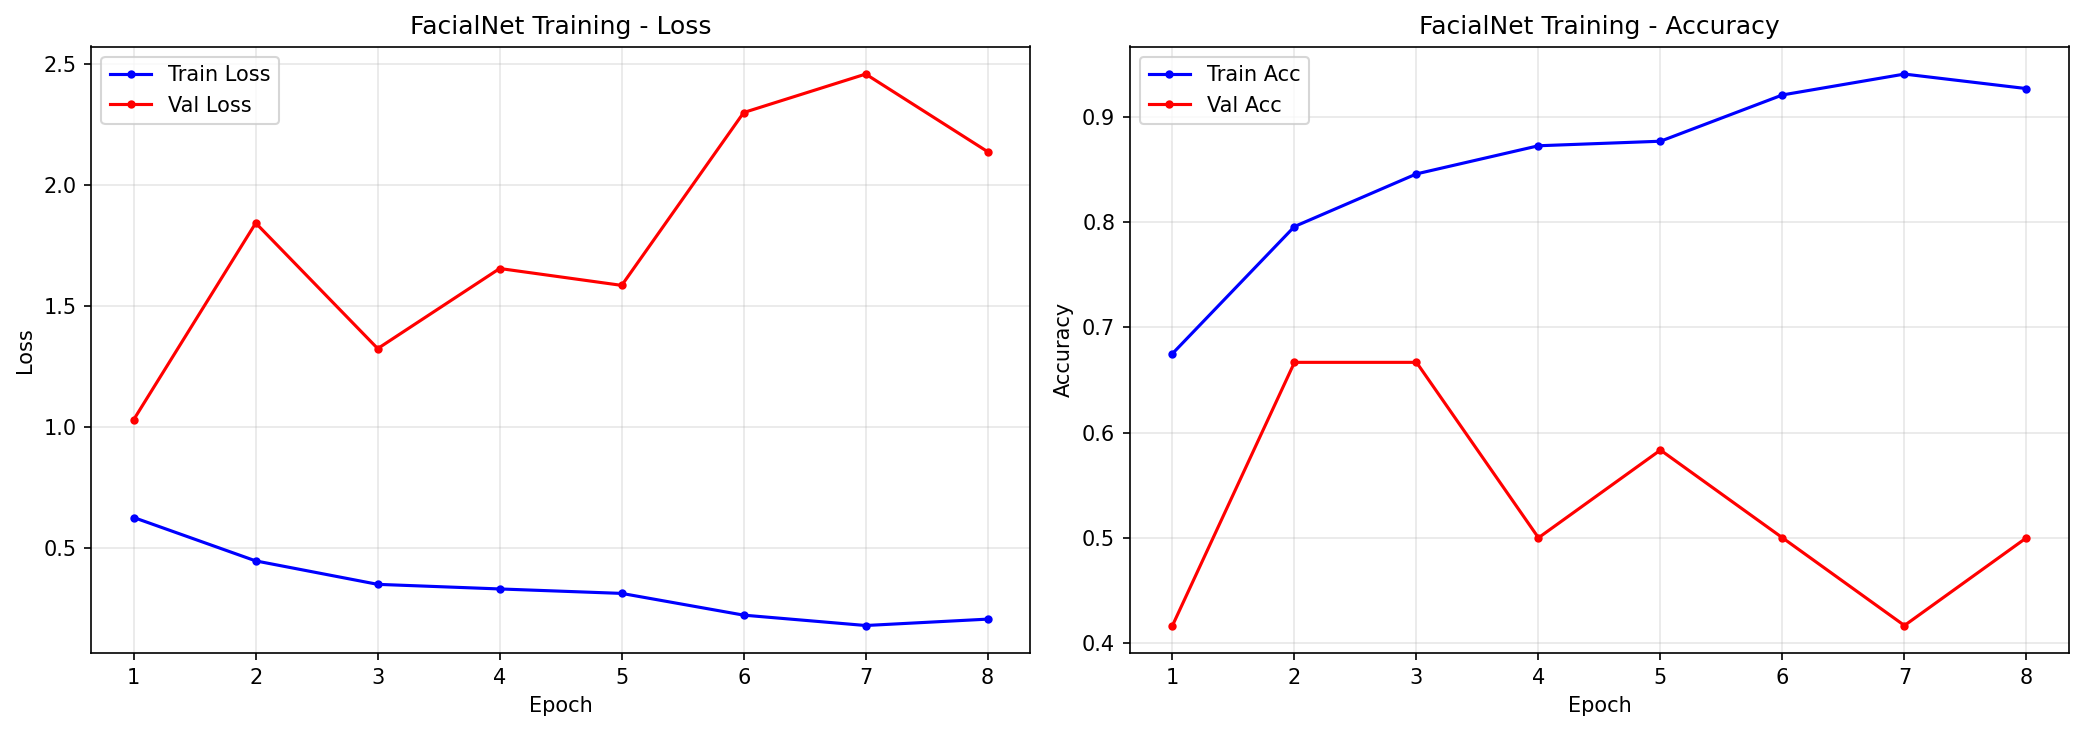
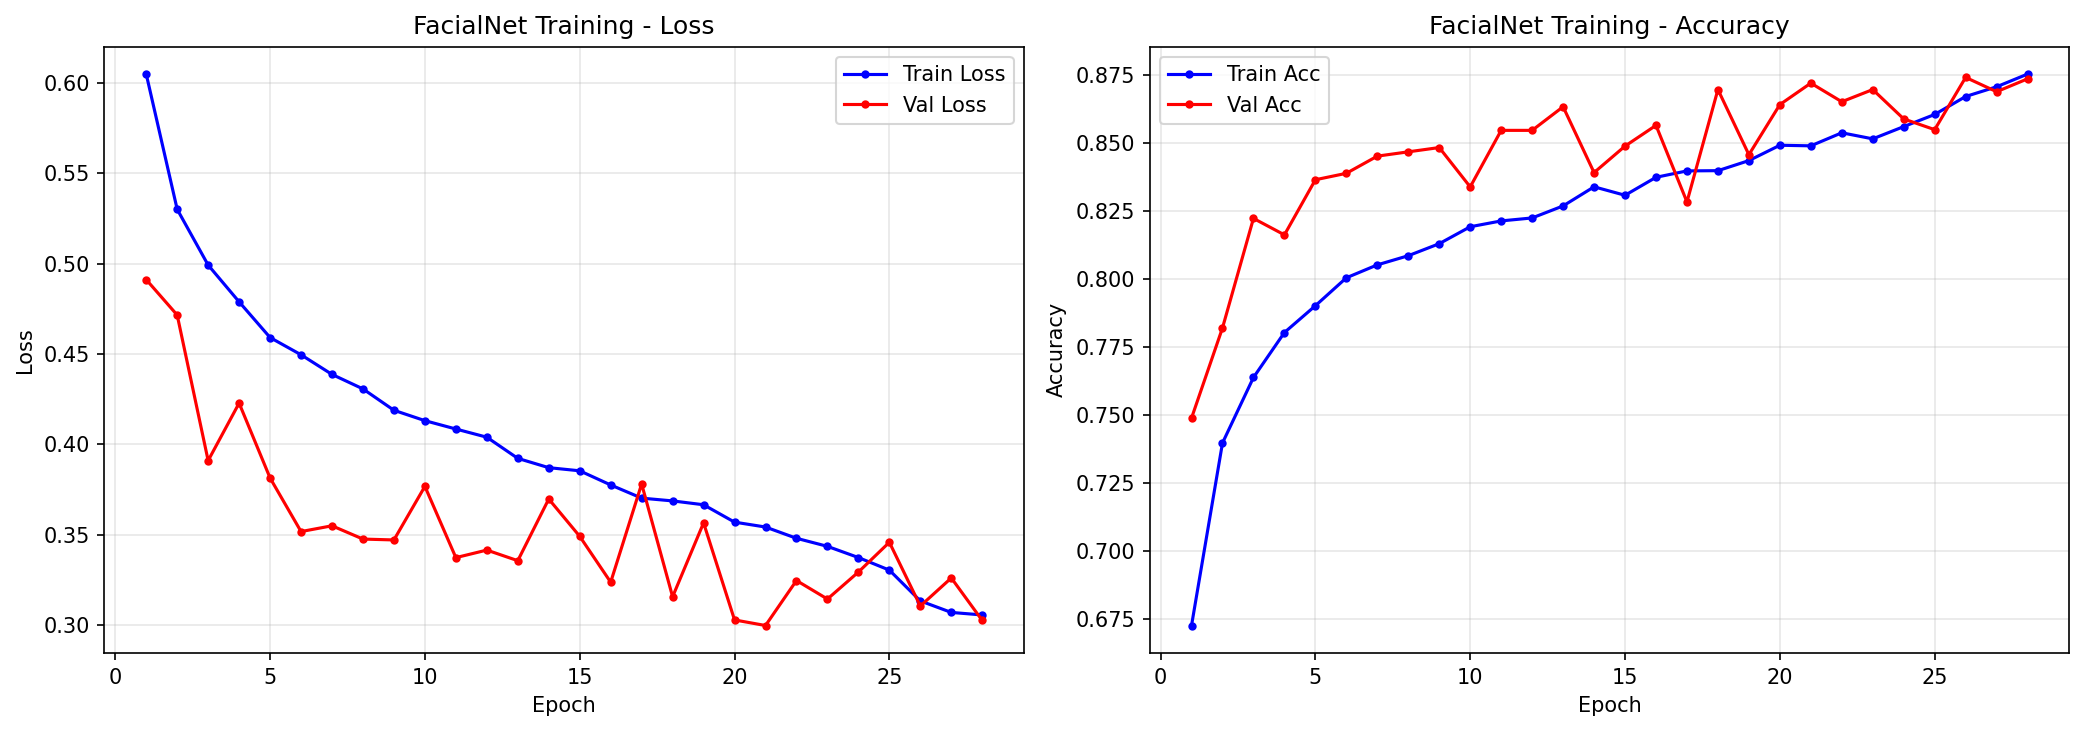
Update: trained FacialNet on new 30K dataset and FusionNet retrained with 80.7% final accuracy

diff --git a/data/facial_dataset.py b/data/facial_dataset.py
@@ -74,11 +74,10 @@ class FacialDataset(Dataset):
         # Convert to uint8 for PIL transforms
         image_uint8 = image.astype(np.uint8)
 
-        if self.augment and idx >= len(self.original_images):
-            # Apply augmentation for augmented copies
+        # Apply augmentation for training if enabled
+        if self.augment:
             image_tensor = self.augment_transform(image_uint8)
         else:
-            # Basic transform for original or validation images
             image_tensor = self.basic_transform(image_uint8)
 
         label = torch.LongTensor([label])[0]
@@ -89,8 +88,10 @@ def get_facial_dataloaders():
     """
     Build train/val/test DataLoaders for facial expression data.
 
-    Loads 83 images, splits 70/15/15 (stratified), and applies
-    20x augmentation on training set.
+    Loads 30,520 images, splits by 'Usage' column:
+    - Training -> Train
+    - PublicTest -> Val
+    - PrivateTest -> Test
 
     Returns:
         train_loader, val_loader, test_loader
@@ -104,33 +105,37 @@ def get_facial_dataloaders():
     print(f"  Loaded {len(df)} facial images")
     print(f"  Class distribution: {df['emotion'].value_counts().to_dict()}")
 
+    # Clean the Usage column
+    df["Usage"] = df["Usage"].str.strip()
+
+    # Split by Usage column
+    train_df = df[df["Usage"] == "Training"]
+    val_df = df[df["Usage"] == "PublicTest"]
+    test_df = df[df["Usage"] == "PrivateTest"]
+
+    print(f"  Train: {len(train_df)} images")
+    print(f"  Val:   {len(val_df)} images")
+    print(f"  Test:  {len(test_df)} images")
+
     # Parse pixel strings to images
-    images = np.array([parse_pixels(p) for p in df["pixels"].values])  # (83, 48, 48)
-    labels = df["emotion"].values.astype(np.int64)
+    print("  Parsing training pixels...")
+    X_train = np.array([parse_pixels(p) for p in train_df["pixels"].values])
+    y_train = train_df["emotion"].values.astype(np.int64)
 
-    # Stratified split: 70% train, 15% val, 15% test
-    X_train, X_temp, y_train, y_temp = train_test_split(
-        images, labels, test_size=0.30, random_state=config.RANDOM_SEED,
-        stratify=labels
-    )
-    X_val, X_test, y_val, y_test = train_test_split(
-        X_temp, y_temp, test_size=0.50, random_state=config.RANDOM_SEED,
-        stratify=y_temp
-    )
+    print("  Parsing validation pixels...")
+    X_val = np.array([parse_pixels(p) for p in val_df["pixels"].values])
+    y_val = val_df["emotion"].values.astype(np.int64)
 
-    print(f"  Train: {len(X_train)} images (before augmentation)")
-    print(f"  Val:   {len(X_val)} images")
-    print(f"  Test:  {len(X_test)} images")
+    print("  Parsing testing pixels...")
+    X_test = np.array([parse_pixels(p) for p in test_df["pixels"].values])
+    y_test = test_df["emotion"].values.astype(np.int64)
 
     # Create datasets
-    train_ds = FacialDataset(
-        X_train, y_train,
-        augment=True, aug_multiplier=config.FACIAL_AUG_MULTIPLIER
-    )
+    train_ds = FacialDataset(X_train, y_train, augment=True, aug_multiplier=config.FACIAL_AUG_MULTIPLIER)
     val_ds = FacialDataset(X_val, y_val, augment=False)
     test_ds = FacialDataset(X_test, y_test, augment=False)
 
-    print(f"  Train dataset size (with {config.FACIAL_AUG_MULTIPLIER}x aug): {len(train_ds)}")
+    print(f"  Train dataset size: {len(train_ds)}")
 
     # Create DataLoaders
     train_loader = DataLoader(train_ds, batch_size=config.FACIAL_BATCH_SIZE,

diff --git a/evaluate.py b/evaluate.py
@@ -52,7 +52,8 @@ def evaluate_physio():
     all_preds, all_labels, all_probs = np.array(all_preds), np.array(all_labels), np.array(all_probs)
     class_names = ["Calm", "Stress", "Amusement"]
 
-    compute_metrics(all_labels, all_preds, config.PHYSIO_NUM_CLASSES, class_names)
+    compute_metrics(all_labels, all_preds, config.PHYSIO_NUM_CLASSES, class_names,
+                    os.path.join(config.PLOT_DIR, "physio_evaluation_report.txt"))
     plot_confusion_matrix(all_labels, all_preds, class_names, "PhysioNet Confusion Matrix",
                           os.path.join(config.PLOT_DIR, "physio_confusion_matrix.png"))
     plot_roc_curve(all_labels, all_probs, config.PHYSIO_NUM_CLASSES, class_names, "PhysioNet ROC Curve",
@@ -85,7 +86,8 @@ def evaluate_facial():
     all_preds, all_labels, all_probs = np.array(all_preds), np.array(all_labels), np.array(all_probs)
     class_names = ["Non-Stress", "Stress"]
 
-    compute_metrics(all_labels, all_preds, config.FACIAL_NUM_CLASSES, class_names)
+    compute_metrics(all_labels, all_preds, config.FACIAL_NUM_CLASSES, class_names,
+                    os.path.join(config.PLOT_DIR, "facial_evaluation_report.txt"))
     plot_confusion_matrix(all_labels, all_preds, class_names, "FacialNet Confusion Matrix",
                           os.path.join(config.PLOT_DIR, "facial_confusion_matrix.png"))
     plot_roc_curve(all_labels, all_probs, config.FACIAL_NUM_CLASSES, class_names, "FacialNet ROC Curve",
@@ -129,7 +131,8 @@ def evaluate_fusion():
     all_preds, all_labels, all_probs = np.array(all_preds), np.array(all_labels), np.array(all_probs)
     class_names = ["Not Stressed", "Stressed"]
 
-    compute_metrics(all_labels, all_preds, config.FUSION_NUM_CLASSES, class_names)
+    compute_metrics(all_labels, all_preds, config.FUSION_NUM_CLASSES, class_names,
+                    os.path.join(config.PLOT_DIR, "fusion_evaluation_report.txt"))
     plot_confusion_matrix(all_labels, all_preds, class_names, "FusionNet Confusion Matrix",
                           os.path.join(config.PLOT_DIR, "fusion_confusion_matrix.png"))
     plot_roc_curve(all_labels, all_probs, config.FUSION_NUM_CLASSES, class_names, "FusionNet ROC Curve",

diff --git a/utils.py b/utils.py
@@ -59,24 +59,34 @@ def set_seed(seed=42):
     torch.backends.cudnn.benchmark = False
 
 
-def compute_metrics(y_true, y_pred, num_classes, class_names=None):
-    """Compute classification metrics."""
+def compute_metrics(y_true, y_pred, num_classes, class_names=None, save_path=None):
+    """Compute classification metrics and optionally save them to a file."""
     acc = accuracy_score(y_true, y_pred)
     prec = precision_score(y_true, y_pred, average="weighted", zero_division=0)
     rec = recall_score(y_true, y_pred, average="weighted", zero_division=0)
     f1 = f1_score(y_true, y_pred, average="weighted", zero_division=0)
 
-    print(f"\n{'='*50}")
-    print(f"  Accuracy:  {acc:.4f}")
-    print(f"  Precision: {prec:.4f}")
-    print(f"  Recall:    {rec:.4f}")
-    print(f"  F1 Score:  {f1:.4f}")
-    print(f"{'='*50}")
+    output = []
+    output.append(f"\n{'='*50}")
+    output.append(f"  Accuracy:  {acc:.4f}")
+    output.append(f"  Precision: {prec:.4f}")
+    output.append(f"  Recall:    {rec:.4f}")
+    output.append(f"  F1 Score:  {f1:.4f}")
+    output.append(f"{'='*50}")
 
     if class_names is None:
         class_names = [str(i) for i in range(num_classes)]
-    print("\nClassification Report:")
-    print(classification_report(y_true, y_pred, target_names=class_names, zero_division=0))
+    output.append("\nClassification Report:")
+    report = classification_report(y_true, y_pred, target_names=class_names, zero_division=0)
+    output.append(report)
+
+    output_str = "\n".join(output)
+    print(output_str)
+
+    if save_path:
+        with open(save_path, "w", encoding="utf-8") as f:
+            f.write(output_str)
+        print(f"  [OK] Evaluation report saved to {save_path}")
 
     return {"accuracy": acc, "precision": prec, "recall": rec, "f1": f1}
 

diff --git a/config.py b/config.py
@@ -21,7 +21,8 @@ PHYSIO_15S_PATH = os.path.join(DATASET_ROOT, "PhysiologicalSignals", "physiologi
 PHYSIO_30S_PATH = os.path.join(DATASET_ROOT, "PhysiologicalSignals", "physiological_signals_30sn.csv")
 PHYSIO_60S_PATH = os.path.join(DATASET_ROOT, "PhysiologicalSignals", "physiological_signals_60sn.csv")
 
-FACIAL_PATH = os.path.join(DATASET_ROOT, "TheFacialExpressions", "facial_expression.csv")
+# Use the new 30,520-image facial dataset
+FACIAL_PATH = os.path.join(r"D:\Capstone", "new dataser", "TheFacialExpressions", "facial_dataset_2_class.csv")
 
 SURVEY_PSS_PATH = os.path.join(DATASET_ROOT, "Survey", "generalStressTest.csv")
 SURVEY_PANAS_PATH = os.path.join(DATASET_ROOT, "Survey", "PANAS.csv")
@@ -62,11 +63,11 @@ SURVEY_FEATURE_DIM = 17     # Total survey features per subject
 # ──────────────────────────────────────────────
 FACIAL_IMAGE_SIZE = 48      # 48x48 grayscale
 FACIAL_NUM_CLASSES = 2      # 0=Non-Stress, 1=Stress
-FACIAL_BATCH_SIZE = 8       # Small dataset → small batch
+FACIAL_BATCH_SIZE = 64      # Increased for larger 30K dataset
 FACIAL_LR = 1e-3
 FACIAL_PRETRAINED_LR = 1e-4  # Lower LR for pretrained layers
 FACIAL_EPOCHS = 50
-FACIAL_AUG_MULTIPLIER = 20  # 20x augmentation for 83 images
+FACIAL_AUG_MULTIPLIER = 1   # Set to 1 since we have enough raw images
 
 # ──────────────────────────────────────────────
 # Fusion Model Hyperparameters

diff --git a/train_fusion.py b/train_fusion.py
@@ -176,10 +176,8 @@ def main():
     trainable = sum(p.numel() for p in model.parameters() if p.requires_grad)
     print(f"  Trainable params (Phase 1 - frozen): {trainable:,}")
 
-    # Class weights for binary
-    labels_list = []
-    for _, _, _, lbl in train_loader:
-        labels_list.extend(lbl.numpy())
+    # Class weights for binary (retrieved directly to save time)
+    labels_list = train_loader.dataset.physio_ds.labels
     class_weights = get_class_weights(np.array(labels_list), config.FUSION_NUM_CLASSES)
     criterion = nn.CrossEntropyLoss(weight=class_weights)
 
@@ -217,7 +215,8 @@ def main():
     print("\n" + "=" * 60 + "\n  EVALUATING ON TEST SET\n" + "=" * 60)
     model.load_state_dict(torch.load(config.FUSION_CHECKPOINT, map_location=device, weights_only=True))
     _, _, tp, tlab = validate(model, test_loader, criterion, device)
-    compute_metrics(tlab, tp, config.FUSION_NUM_CLASSES, ["Not Stressed", "Stressed"])
+    compute_metrics(tlab, tp, config.FUSION_NUM_CLASSES, ["Not Stressed", "Stressed"],
+                    os.path.join(config.PLOT_DIR, "fusion_evaluation_report.txt"))
     print(f"\n  [OK] Best model: {config.FUSION_CHECKPOINT}")
 
 if __name__ == "__main__":

diff --git a/train_facial.py b/train_facial.py
@@ -68,10 +68,8 @@ def main():
 
     train_loader, val_loader, test_loader = get_facial_dataloaders()
 
-    # Class weights
-    train_labels = []
-    for _, labels in train_loader:
-        train_labels.extend(labels.numpy())
+    # Class weights (retrieved directly from dataset to save time)
+    train_labels = train_loader.dataset.original_labels
     class_weights = get_class_weights(np.array(train_labels), config.FACIAL_NUM_CLASSES)
     print(f"\n  Class weights: {class_weights.cpu().numpy()}")
 
@@ -110,7 +108,8 @@ def main():
     print("\n" + "=" * 60 + "\n  EVALUATING ON TEST SET\n" + "=" * 60)
     model.load_state_dict(torch.load(config.FACIAL_CHECKPOINT, map_location=device, weights_only=True))
     _, _, tp, tl = validate(model, test_loader, criterion, device)
-    compute_metrics(tl, tp, config.FACIAL_NUM_CLASSES, ["Non-Stress", "Stress"])
+    compute_metrics(tl, tp, config.FACIAL_NUM_CLASSES, ["Non-Stress", "Stress"],
+                    os.path.join(config.PLOT_DIR, "facial_evaluation_report.txt"))
     print(f"\n  [OK] Best model: {config.FACIAL_CHECKPOINT}")
 
 if __name__ == "__main__":

diff --git a/train_physio.py b/train_physio.py
@@ -192,7 +192,8 @@ def main():
     _, test_acc, test_preds, test_labels = validate(model, test_loader, criterion, device)
 
     class_names = ["Calm", "Stress", "Amusement"]
-    compute_metrics(test_labels, test_preds, config.PHYSIO_NUM_CLASSES, class_names)
+    compute_metrics(test_labels, test_preds, config.PHYSIO_NUM_CLASSES, class_names,
+                    os.path.join(config.PLOT_DIR, "physio_evaluation_report.txt"))
 
     print(f"\n  [OK] Best model saved at: {config.PHYSIO_CHECKPOINT}")
     print(f"  [OK] Training curves at: {os.path.join(config.PLOT_DIR, 'physio_training_curves.png')}")
